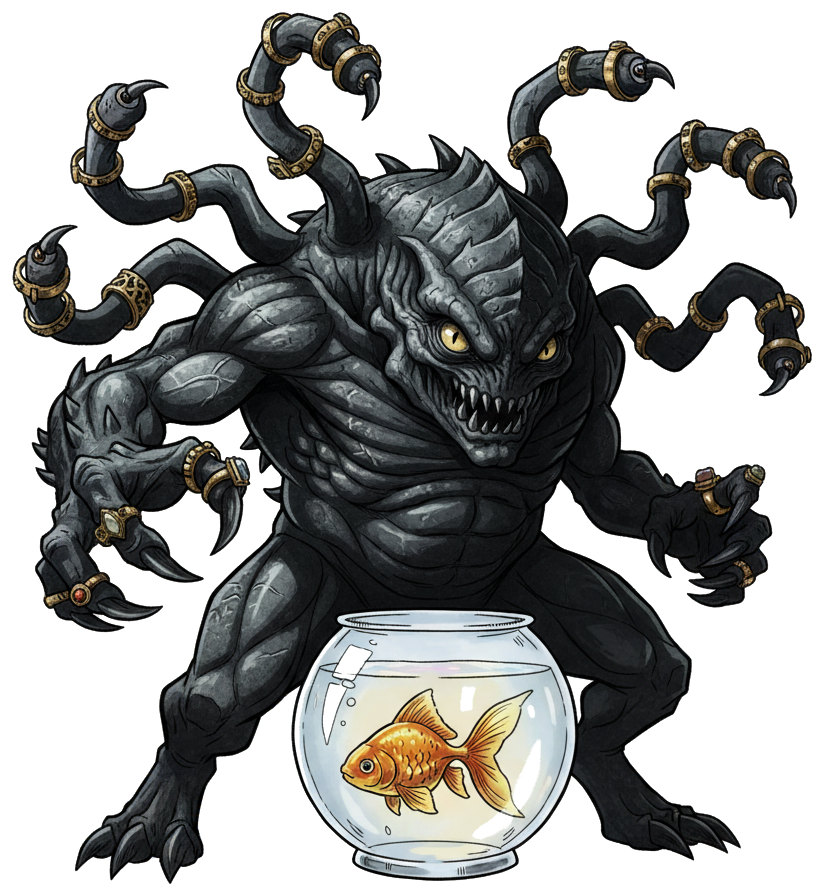
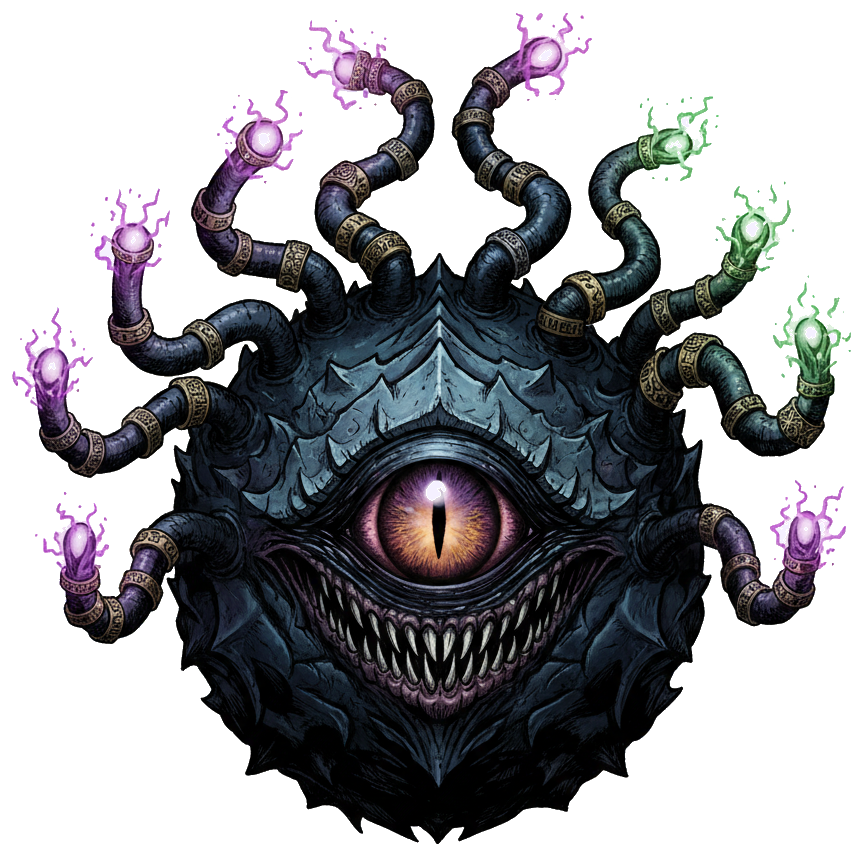
art(neutral): remake Xanathar (neutral_120) as true floating Beholder Eye Tyrant and bump cache to v36

diff --git a/src/components/CardView.tsx b/src/components/CardView.tsx
@@ -363,7 +363,7 @@ export const CardView: React.FC<CardViewProps> = ({
           <div className={`mtg-token-art aura-${displayCard.domain}`}>
             {!imgError && displayCard.imagePath ? (
               <img
-                src={`${displayCard.imagePath}?v=35`}
+                src={`${displayCard.imagePath}?v=36`}
                 alt={displayName}
                 className="mtg-token-img"
                 onError={() => setImgError(true)}
@@ -518,7 +518,7 @@ export const CardView: React.FC<CardViewProps> = ({
 
           {!imgError && displayCard.imagePath ? (
             <img
-              src={`${displayCard.imagePath}?v=35`}
+              src={`${displayCard.imagePath}?v=36`}
               alt={displayName}
               className="card-cutout-img"
               onError={() => setImgError(true)}
